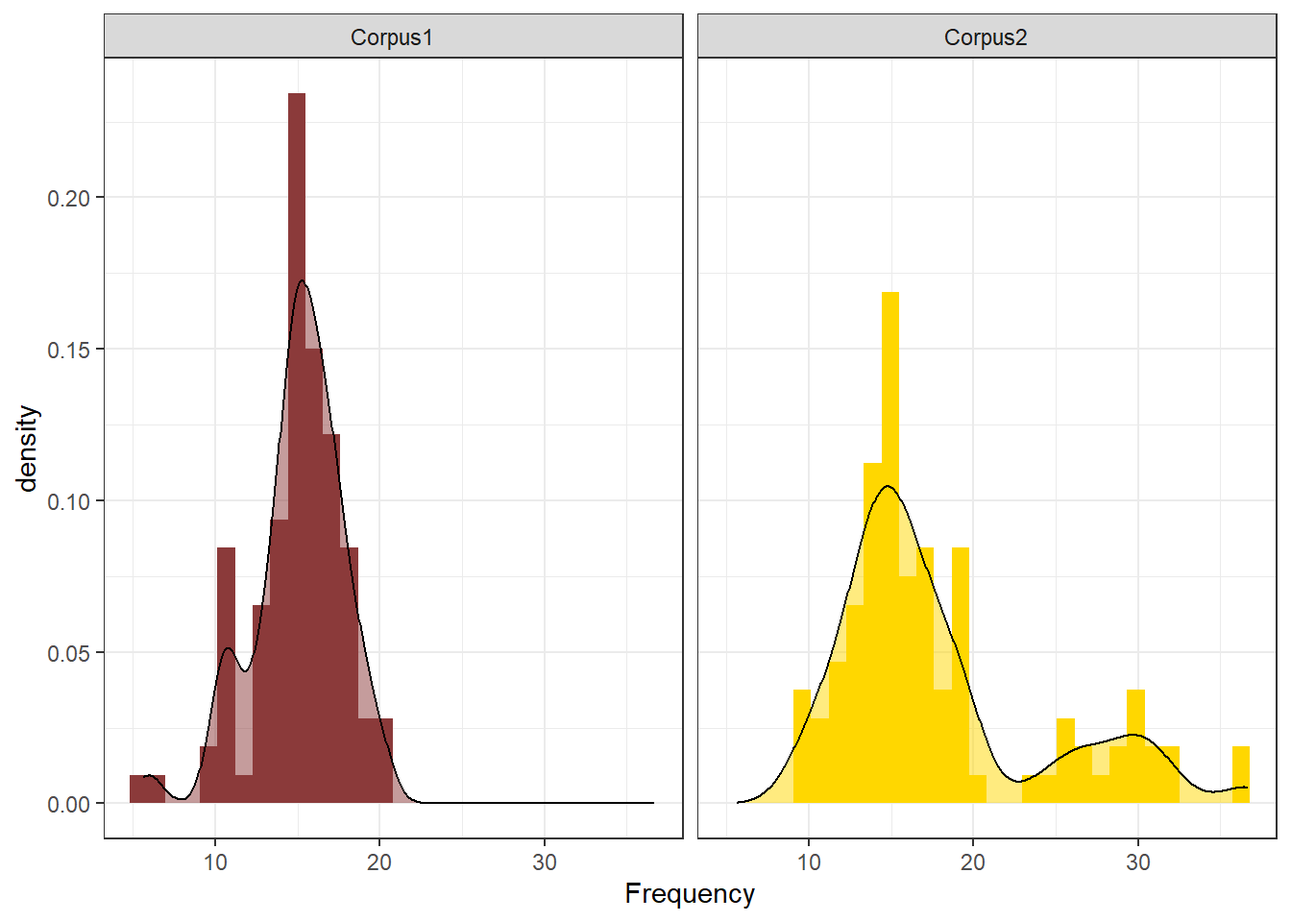
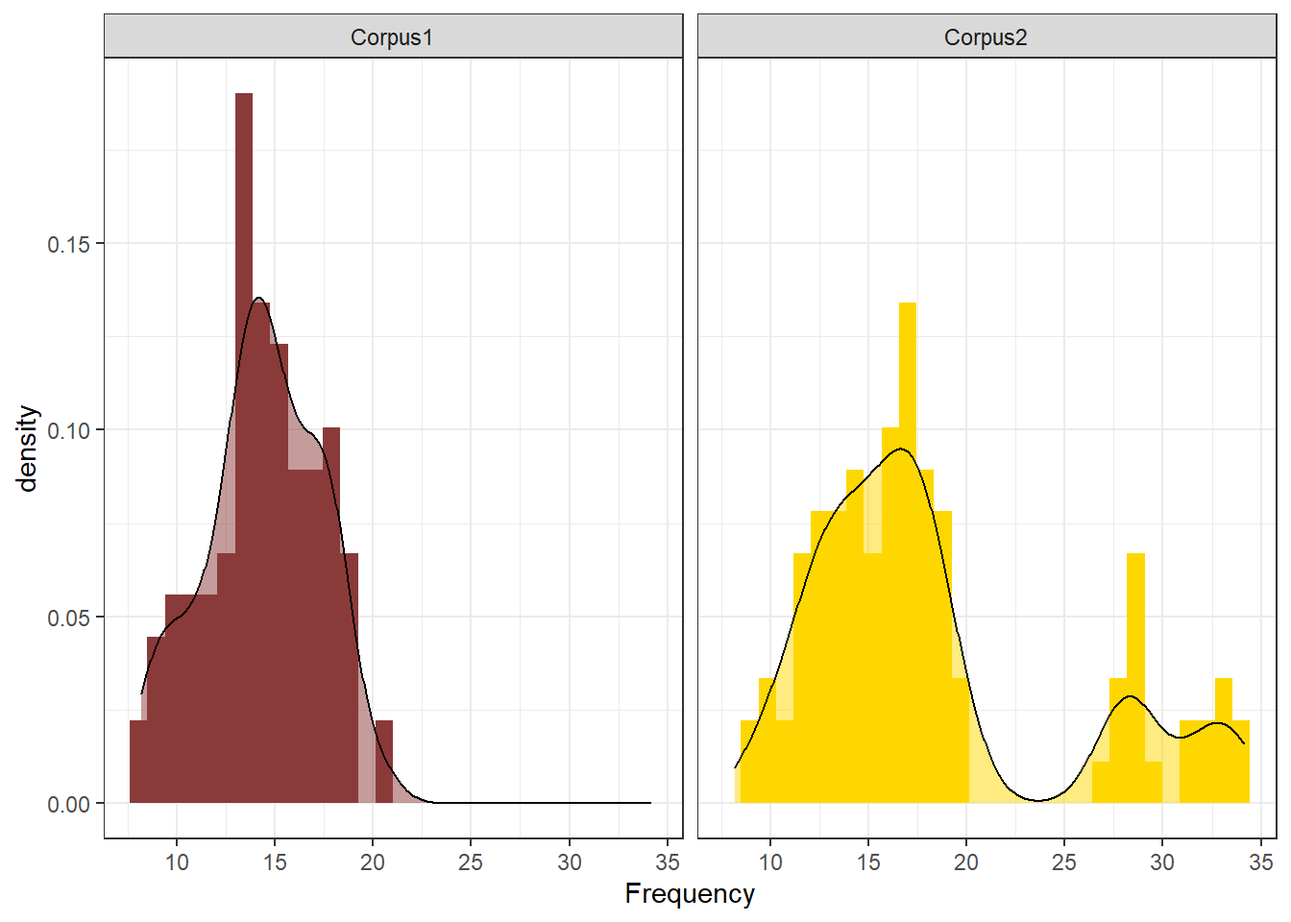
basic quant updates

diff --git a/basicquant.html b/basicquant.html
@@ -14,7 +14,7 @@
 
 <meta name="author" content="Martin Schweinberger" />
 
-<meta name="date" content="2021-03-23" />
+<meta name="date" content="2021-04-07" />
 
 <title>Basic Concepts in Quantitative Research</title>
 
@@ -538,7 +538,7 @@ div.tocify {
   </ul>
 </li>
 <li>
-  <a href="services.html">SERVICES &amp; CONTACT</a>
+  <a href="services.html">SERVICES | CONTACT</a>
 </li>
       </ul>
       <ul class="nav navbar-nav navbar-right">
@@ -554,7 +554,7 @@ div.tocify {
 
 <h1 class="title toc-ignore">Basic Concepts in Quantitative Research</h1>
 <h4 class="author">Martin Schweinberger</h4>
-<h4 class="date">2021-03-23</h4>
+<h4 class="date">2021-04-07</h4>
 
 </div>
 
@@ -576,15 +576,15 @@ div.tocify {
 <p>Perhaps the most trivial and important issues related to the processing and analysis of data are the questions <em>What is statistics?</em> and <em>Why should I use statistics?</em>. A simple answer to the first question is that statistics is a way to find out about the world around us in quantitative terms. Statistics therefore comprises methods that perform <em>quantitative analyses</em>. Quantitative analyses use numeric information to understand the world and they are very important in science (which I take here to refer to any approach that uses the scientific method to gain a reliable understanding of the world around us). The answer to the second question is more complicated but we can say that we use statistics for three main purposes:</p>
 <ol style="list-style-type: lower-alpha">
 <li>to summarize data (descriptive statistics)</li>
-<li>to explore data, and</li>
-<li>to see how something is related or influenced by something else.</li>
+<li>to explore data, and (exploratory statistics)</li>
+<li>to see how something is related or influenced by something else. (inference statistics)</li>
 </ol>
 <p>I also have a very practical approach to statistics and like to think of statistics as a kind of labor-saving device which helps me minimize labor - either the effort associated with reporting a result or in the effort of finding out about how two or more things are related based on some form of data. As such, statistics comprises methods (quantitative analyses) that we use in science to understand the world around us. Science can be defined as a systematic enterprise that builds and organizes knowledge in the form of testable explanations and predictions about the universe <span class="citation">(Wilson <a href="#ref-wilson1999natural" role="doc-biblioref">1999</a>, 58)</span>. One of the most fundamental concepts in that definition is the concept of testable explanations. Another name for such explanations is <em>hypothesis</em>. Thus, Edward Wilson’s definition of science can be rephrased (somewhat crudely) as the methodological testing of hypotheses. This goes to show that hypotheses are at the very heart of the scientific endeavor.</p>
 <p>To get a better understanding of how we <em>do science</em>, this tutorial introduces basic concepts that underpin (all) quantitative analyses. To this end, we will try to understand what hypotheses are, how to formulate them, and what logic underpins hypothesis testing. To begin with, we will focus on a practical example to avoid talking merely about abstract ideas. The example we will look at is the English comparative construction.</p>
 </div>
 <div id="primer-comparatives-in-english" class="section level1">
 <h1><span class="header-section-number">2</span> Primer: Comparatives in English</h1>
-<p>In English, the comparative forms of adjectives can be formed according to two strategies: either synthetically/morphologically as in <a href="#1ex">(1)</a> or analytically/periphrastically as in <a href="#2ex">(2)</a>.</p>
+<p>In English, the comparative forms of adjectives can be formed according to two strategies: either synthetically (also called morphologically) as in <a href="#1ex">(1)</a> or analytically (also called periphrastically) as in <a href="#2ex">(2)</a>.</p>
 <p>As a general rule, the comparative of adjectives that have only one syllable are formed by using the morphological strategy while adjectives that have three or more syllables are formed using the periphrastic strategy. However, in some cases where adjectives consist of two syllables, speakers may choose which strategy they apply. In our example, we want to find out, how to proceed when trying to understand the reasons why a speakers chooses the first strategy in one case and the second strategy in another.</p>
 <ol style="list-style-type: decimal">
 <li><p>synthetic/morphological comparative<br />
@@ -711,7 +711,7 @@ proud <span class="math inline">\(\rightarrow\)</span> more proud</p></li>
 </ul></li>
 </ul>
 <p>There are more designs(e.g. meta-studies) and also other classifications, but in the language sciences, I think that the ones listed above are the most frequent ones. Each of these designs has advantages and disadvantages which are briefly summarized in the table below.</p>
-<div class="tabwid"><style>.cl-44325fa8{font-family:'Arial';font-size:11px;font-weight:bold;font-style:normal;text-decoration:none;color:rgba(17, 17, 17, 1.00);background-color:transparent;}.cl-44325fa9{font-family:'Arial';font-size:11px;font-weight:normal;font-style:normal;text-decoration:none;color:rgba(17, 17, 17, 1.00);background-color:transparent;}.cl-443286b8{margin:0;text-align:left;border-bottom: 0 solid rgba(0, 0, 0, 1.00);border-top: 0 solid rgba(0, 0, 0, 1.00);border-left: 0 solid rgba(0, 0, 0, 1.00);border-right: 0 solid rgba(0, 0, 0, 1.00);padding-bottom:2px;padding-top:2px;padding-left:2px;padding-right:2px;line-height: 1.00;background-color:transparent;}.cl-4432ada0{width:156px;background-clip: padding-box;background-color:rgba(239, 239, 239, 1.00);vertical-align: middle;border-bottom: 0 solid rgba(0, 0, 0, 1.00);border-top: 0 solid rgba(0, 0, 0, 1.00);border-left: 0 solid rgba(0, 0, 0, 1.00);border-right: 0 solid rgba(0, 0, 0, 1.00);margin-bottom:0;margin-top:0;margin-left:0;margin-right:0;}.cl-4432ada1{width:101px;background-clip: padding-box;background-color:rgba(239, 239, 239, 1.00);vertical-align: middle;border-bottom: 0 solid rgba(0, 0, 0, 1.00);border-top: 0 solid rgba(0, 0, 0, 1.00);border-left: 0 solid rgba(0, 0, 0, 1.00);border-right: 0 solid rgba(0, 0, 0, 1.00);margin-bottom:0;margin-top:0;margin-left:0;margin-right:0;}.cl-4432ada2{width:187px;background-clip: padding-box;background-color:rgba(239, 239, 239, 1.00);vertical-align: middle;border-bottom: 0 solid rgba(0, 0, 0, 1.00);border-top: 0 solid rgba(0, 0, 0, 1.00);border-left: 0 solid rgba(0, 0, 0, 1.00);border-right: 0 solid rgba(0, 0, 0, 1.00);margin-bottom:0;margin-top:0;margin-left:0;margin-right:0;}.cl-4432ada3{width:119px;background-clip: padding-box;background-color:rgba(239, 239, 239, 1.00);vertical-align: middle;border-bottom: 0 solid rgba(0, 0, 0, 1.00);border-top: 0 solid rgba(0, 0, 0, 1.00);border-left: 0 solid rgba(0, 0, 0, 1.00);border-right: 0 solid rgba(0, 0, 0, 1.00);margin-bottom:0;margin-top:0;margin-left:0;margin-right:0;}.cl-4432ada4{width:93px;background-clip: padding-box;background-color:rgba(239, 239, 239, 1.00);vertical-align: middle;border-bottom: 0 solid rgba(0, 0, 0, 1.00);border-top: 0 solid rgba(0, 0, 0, 1.00);border-left: 0 solid rgba(0, 0, 0, 1.00);border-right: 0 solid rgba(0, 0, 0, 1.00);margin-bottom:0;margin-top:0;margin-left:0;margin-right:0;}.cl-4432ada5{width:280px;background-clip: padding-box;background-color:rgba(239, 239, 239, 1.00);vertical-align: middle;border-bottom: 0 solid rgba(0, 0, 0, 1.00);border-top: 0 solid rgba(0, 0, 0, 1.00);border-left: 0 solid rgba(0, 0, 0, 1.00);border-right: 0 solid rgba(0, 0, 0, 1.00);margin-bottom:0;margin-top:0;margin-left:0;margin-right:0;}.cl-4432ada6{width:126px;background-clip: padding-box;background-color:rgba(239, 239, 239, 1.00);vertical-align: middle;border-bottom: 0 solid rgba(0, 0, 0, 1.00);border-top: 0 solid rgba(0, 0, 0, 1.00);border-left: 0 solid rgba(0, 0, 0, 1.00);border-right: 0 solid rgba(0, 0, 0, 1.00);margin-bottom:0;margin-top:0;margin-left:0;margin-right:0;}.cl-4432ada7{width:208px;background-clip: padding-box;background-color:rgba(239, 239, 239, 1.00);vertical-align: middle;border-bottom: 0 solid rgba(0, 0, 0, 1.00);border-top: 0 solid rgba(0, 0, 0, 1.00);border-left: 0 solid rgba(0, 0, 0, 1.00);border-right: 0 solid rgba(0, 0, 0, 1.00);margin-bottom:0;margin-top:0;margin-left:0;margin-right:0;}.cl-4432ada8{width:208px;background-color:transparent;vertical-align: middle;border-bottom: 0 solid rgba(0, 0, 0, 1.00);border-top: 0 solid rgba(0, 0, 0, 1.00);border-left: 0 solid rgba(0, 0, 0, 1.00);border-right: 0 solid rgba(0, 0, 0, 1.00);margin-bottom:0;margin-top:0;margin-left:0;margin-right:0;}.cl-4432ada9{width:280px;background-color:transparent;vertical-align: middle;border-bottom: 0 solid rgba(0, 0, 0, 1.00);border-top: 0 solid rgba(0, 0, 0, 1.00);border-left: 0 solid rgba(0, 0, 0, 1.00);border-right: 0 solid rgba(0, 0, 0, 1.00);margin-bottom:0;margin-top:0;margin-left:0;margin-right:0;}.cl-4432adaa{width:187px;background-color:transparent;vertical-align: middle;border-bottom: 0 solid rgba(0, 0, 0, 1.00);border-top: 0 solid rgba(0, 0, 0, 1.00);border-left: 0 solid rgba(0, 0, 0, 1.00);border-right: 0 solid rgba(0, 0, 0, 1.00);margin-bottom:0;margin-top:0;margin-left:0;margin-right:0;}.cl-4432d492{width:126px;background-color:transparent;vertical-align: middle;border-bottom: 0 solid rgba(0, 0, 0, 1.00);border-top: 0 solid rgba(0, 0, 0, 1.00);border-left: 0 solid rgba(0, 0, 0, 1.00);border-right: 0 solid rgba(0, 0, 0, 1.00);margin-bottom:0;margin-top:0;margin-left:0;margin-right:0;}.cl-4432d493{width:119px;background-color:transparent;vertical-align: middle;border-bottom: 0 solid rgba(0, 0, 0, 1.00);border-top: 0 solid rgba(0, 0, 0, 1.00);border-left: 0 solid rgba(0, 0, 0, 1.00);border-right: 0 solid rgba(0, 0, 0, 1.00);margin-bottom:0;margin-top:0;margin-left:0;margin-right:0;}.cl-4432d494{width:93px;background-color:transparent;vertical-align: middle;border-bottom: 0 solid rgba(0, 0, 0, 1.00);border-top: 0 solid rgba(0, 0, 0, 1.00);border-left: 0 solid rgba(0, 0, 0, 1.00);border-right: 0 solid rgba(0, 0, 0, 1.00);margin-bottom:0;margin-top:0;margin-left:0;margin-right:0;}.cl-4432d495{width:156px;background-color:transparent;vertical-align: middle;border-bottom: 0 solid rgba(0, 0, 0, 1.00);border-top: 0 solid rgba(0, 0, 0, 1.00);border-left: 0 solid rgba(0, 0, 0, 1.00);border-right: 0 solid rgba(0, 0, 0, 1.00);margin-bottom:0;margin-top:0;margin-left:0;margin-right:0;}.cl-4432d496{width:101px;background-color:transparent;vertical-align: middle;border-bottom: 0 solid rgba(0, 0, 0, 1.00);border-top: 0 solid rgba(0, 0, 0, 1.00);border-left: 0 solid rgba(0, 0, 0, 1.00);border-right: 0 solid rgba(0, 0, 0, 1.00);margin-bottom:0;margin-top:0;margin-left:0;margin-right:0;}.cl-4432d497{width:119px;background-clip: padding-box;background-color:rgba(239, 239, 239, 1.00);vertical-align: middle;border-bottom: 0 solid rgba(0, 0, 0, 1.00);border-top: 0 solid rgba(0, 0, 0, 1.00);border-left: 0 solid rgba(0, 0, 0, 1.00);border-right: 0 solid rgba(0, 0, 0, 1.00);margin-bottom:0;margin-top:0;margin-left:0;margin-right:0;}.cl-4432d498{width:208px;background-clip: padding-box;background-color:rgba(239, 239, 239, 1.00);vertical-align: middle;border-bottom: 0 solid rgba(0, 0, 0, 1.00);border-top: 0 solid rgba(0, 0, 0, 1.00);border-left: 0 solid rgba(0, 0, 0, 1.00);border-right: 0 solid rgba(0, 0, 0, 1.00);margin-bottom:0;margin-top:0;margin-left:0;margin-right:0;}.cl-4432d499{width:93px;background-clip: padding-box;background-color:rgba(239, 239, 239, 1.00);vertical-align: middle;border-bottom: 0 solid rgba(0, 0, 0, 1.00);border-top: 0 solid rgba(0, 0, 0, 1.00);border-left: 0 solid rgba(0, 0, 0, 1.00);border-right: 0 solid rgba(0, 0, 0, 1.00);margin-bottom:0;margin-top:0;margin-left:0;margin-right:0;}.cl-4432d49a{width:101px;background-clip: padding-box;background-color:rgba(239, 239, 239, 1.00);vertical-align: middle;border-bottom: 0 solid rgba(0, 0, 0, 1.00);border-top: 0 solid rgba(0, 0, 0, 1.00);border-left: 0 solid rgba(0, 0, 0, 1.00);border-right: 0 solid rgba(0, 0, 0, 1.00);margin-bottom:0;margin-top:0;margin-left:0;margin-right:0;}.cl-4432d49b{width:280px;background-clip: padding-box;background-color:rgba(239, 239, 239, 1.00);vertical-align: middle;border-bottom: 0 solid rgba(0, 0, 0, 1.00);border-top: 0 solid rgba(0, 0, 0, 1.00);border-left: 0 solid rgba(0, 0, 0, 1.00);border-right: 0 solid rgba(0, 0, 0, 1.00);margin-bottom:0;margin-top:0;margin-left:0;margin-right:0;}.cl-4432d49c{width:187px;background-clip: padding-box;background-color:rgba(239, 239, 239, 1.00);vertical-align: middle;border-bottom: 0 solid rgba(0, 0, 0, 1.00);border-top: 0 solid rgba(0, 0, 0, 1.00);border-left: 0 solid rgba(0, 0, 0, 1.00);border-right: 0 solid rgba(0, 0, 0, 1.00);margin-bottom:0;margin-top:0;margin-left:0;margin-right:0;}.cl-4432fb8e{width:156px;background-clip: padding-box;background-color:rgba(239, 239, 239, 1.00);vertical-align: middle;border-bottom: 0 solid rgba(0, 0, 0, 1.00);border-top: 0 solid rgba(0, 0, 0, 1.00);border-left: 0 solid rgba(0, 0, 0, 1.00);border-right: 0 solid rgba(0, 0, 0, 1.00);margin-bottom:0;margin-top:0;margin-left:0;margin-right:0;}.cl-4432fb8f{width:126px;background-clip: padding-box;background-color:rgba(239, 239, 239, 1.00);vertical-align: middle;border-bottom: 0 solid rgba(0, 0, 0, 1.00);border-top: 0 solid rgba(0, 0, 0, 1.00);border-left: 0 solid rgba(0, 0, 0, 1.00);border-right: 0 solid rgba(0, 0, 0, 1.00);margin-bottom:0;margin-top:0;margin-left:0;margin-right:0;}.cl-4432fb90{width:156px;background-clip: padding-box;background-color:rgba(207, 207, 207, 1.00);vertical-align: middle;border-bottom: 0 solid rgba(0, 0, 0, 1.00);border-top: 0 solid rgba(0, 0, 0, 1.00);border-left: 0 solid rgba(0, 0, 0, 1.00);border-right: 0 solid rgba(0, 0, 0, 1.00);margin-bottom:0;margin-top:0;margin-left:0;margin-right:0;}.cl-4432fb91{width:280px;background-clip: padding-box;background-color:rgba(207, 207, 207, 1.00);vertical-align: middle;border-bottom: 0 solid rgba(0, 0, 0, 1.00);border-top: 0 solid rgba(0, 0, 0, 1.00);border-left: 0 solid rgba(0, 0, 0, 1.00);border-right: 0 solid rgba(0, 0, 0, 1.00);margin-bottom:0;margin-top:0;margin-left:0;margin-right:0;}.cl-4432fb92{width:126px;background-clip: padding-box;background-color:rgba(207, 207, 207, 1.00);vertical-align: middle;border-bottom: 0 solid rgba(0, 0, 0, 1.00);border-top: 0 solid rgba(0, 0, 0, 1.00);border-left: 0 solid rgba(0, 0, 0, 1.00);border-right: 0 solid rgba(0, 0, 0, 1.00);margin-bottom:0;margin-top:0;margin-left:0;margin-right:0;}.cl-4432fb93{width:101px;background-clip: padding-box;background-color:rgba(207, 207, 207, 1.00);vertical-align: middle;border-bottom: 0 solid rgba(0, 0, 0, 1.00);border-top: 0 solid rgba(0, 0, 0, 1.00);border-left: 0 solid rgba(0, 0, 0, 1.00);border-right: 0 solid rgba(0, 0, 0, 1.00);margin-bottom:0;margin-top:0;margin-left:0;margin-right:0;}.cl-4432fb94{width:119px;background-clip: padding-box;background-color:rgba(207, 207, 207, 1.00);vertical-align: middle;border-bottom: 0 solid rgba(0, 0, 0, 1.00);border-top: 0 solid rgba(0, 0, 0, 1.00);border-left: 0 solid rgba(0, 0, 0, 1.00);border-right: 0 solid rgba(0, 0, 0, 1.00);margin-bottom:0;margin-top:0;margin-left:0;margin-right:0;}.cl-4432fb95{width:208px;background-clip: padding-box;background-color:rgba(207, 207, 207, 1.00);vertical-align: middle;border-bottom: 0 solid rgba(0, 0, 0, 1.00);border-top: 0 solid rgba(0, 0, 0, 1.00);border-left: 0 solid rgba(0, 0, 0, 1.00);border-right: 0 solid rgba(0, 0, 0, 1.00);margin-bottom:0;margin-top:0;margin-left:0;margin-right:0;}.cl-4432fb96{width:187px;background-clip: padding-box;background-color:rgba(207, 207, 207, 1.00);vertical-align: middle;border-bottom: 0 solid rgba(0, 0, 0, 1.00);border-top: 0 solid rgba(0, 0, 0, 1.00);border-left: 0 solid rgba(0, 0, 0, 1.00);border-right: 0 solid rgba(0, 0, 0, 1.00);margin-bottom:0;margin-top:0;margin-left:0;margin-right:0;}.cl-4432fb97{width:93px;background-clip: padding-box;background-color:rgba(207, 207, 207, 1.00);vertical-align: middle;border-bottom: 0 solid rgba(0, 0, 0, 1.00);border-top: 0 solid rgba(0, 0, 0, 1.00);border-left: 0 solid rgba(0, 0, 0, 1.00);border-right: 0 solid rgba(0, 0, 0, 1.00);margin-bottom:0;margin-top:0;margin-left:0;margin-right:0;}</style><table style='border-collapse:collapse;'><caption>Overview of advantages and disadvantages of different research designs.</caption><thead><tr style="overflow-wrap:break-word;"><td class="cl-4432fb92"><p class="cl-443286b8"><span class="cl-44325fa8">Type</span></p></td><td class="cl-4432fb93"><p class="cl-443286b8"><span class="cl-44325fa8">Research design</span></p></td><td class="cl-4432fb90"><p class="cl-443286b8"><span class="cl-44325fa8">Example</span></p></td><td class="cl-4432fb95"><p class="cl-443286b8"><span class="cl-44325fa8">Directness of access to phenomenon</span></p></td><td class="cl-4432fb94"><p class="cl-443286b8"><span class="cl-44325fa8">Cost/Labor intensity</span></p></td><td class="cl-4432fb96"><p class="cl-443286b8"><span class="cl-44325fa8">External validity (generalizability)</span></p></td><td class="cl-4432fb97"><p class="cl-443286b8"><span class="cl-44325fa8">Internal validity</span></p></td><td class="cl-4432fb91"><p class="cl-443286b8"><span class="cl-44325fa8">Ease of data collection (e.g. access to participants)</span></p></td></tr></thead><tbody><tr style="overflow-wrap:break-word;"><td class="cl-4432ada6"><p class="cl-443286b8"><span class="cl-44325fa9">Experimental research</span></p></td><td class="cl-4432ada1"><p class="cl-443286b8"><span class="cl-44325fa9">Experimental</span></p></td><td class="cl-4432ada0"><p class="cl-443286b8"><span class="cl-44325fa9">Reaction time measurements</span></p></td><td class="cl-4432ada7"><p class="cl-443286b8"><span class="cl-44325fa9">high</span></p></td><td class="cl-4432ada3"><p class="cl-443286b8"><span class="cl-44325fa9">high/variable</span></p></td><td class="cl-4432ada2"><p class="cl-443286b8"><span class="cl-44325fa9">high</span></p></td><td class="cl-4432ada4"><p class="cl-443286b8"><span class="cl-44325fa9">high</span></p></td><td class="cl-4432ada5"><p class="cl-443286b8"><span class="cl-44325fa9">low</span></p></td></tr><tr style="overflow-wrap:break-word;"><td  rowspan="4"class="cl-4432d492"><p class="cl-443286b8"><span class="cl-44325fa9">Observational research</span></p></td><td class="cl-4432d496"><p class="cl-443286b8"><span class="cl-44325fa9">Behavioral</span></p></td><td class="cl-4432d495"><p class="cl-443286b8"><span class="cl-44325fa9">Corpus study</span></p></td><td class="cl-4432ada8"><p class="cl-443286b8"><span class="cl-44325fa9">high</span></p></td><td class="cl-4432d493"><p class="cl-443286b8"><span class="cl-44325fa9">low/variable</span></p></td><td class="cl-4432adaa"><p class="cl-443286b8"><span class="cl-44325fa9">low/variable</span></p></td><td class="cl-4432d494"><p class="cl-443286b8"><span class="cl-44325fa9">high</span></p></td><td class="cl-4432ada9"><p class="cl-443286b8"><span class="cl-44325fa9">medium</span></p></td></tr><tr style="overflow-wrap:break-word;"><td class="cl-4432ada1"><p class="cl-443286b8"><span class="cl-44325fa9">Archival/Review</span></p></td><td class="cl-4432ada0"><p class="cl-443286b8"><span class="cl-44325fa9">Systematic literature review</span></p></td><td class="cl-4432ada7"><p class="cl-443286b8"><span class="cl-44325fa9">low</span></p></td><td class="cl-4432ada3"><p class="cl-443286b8"><span class="cl-44325fa9">low</span></p></td><td class="cl-4432ada2"><p class="cl-443286b8"><span class="cl-44325fa9">low</span></p></td><td class="cl-4432ada4"><p class="cl-443286b8"><span class="cl-44325fa9">medium</span></p></td><td class="cl-4432ada5"><p class="cl-443286b8"><span class="cl-44325fa9">high</span></p></td></tr><tr style="overflow-wrap:break-word;"><td class="cl-4432d496"><p class="cl-443286b8"><span class="cl-44325fa9">Introspection</span></p></td><td class="cl-4432d495"><p class="cl-443286b8"><span class="cl-44325fa9">Grammaticality judgements</span></p></td><td class="cl-4432ada8"><p class="cl-443286b8"><span class="cl-44325fa9">high</span></p></td><td class="cl-4432d493"><p class="cl-443286b8"><span class="cl-44325fa9">low</span></p></td><td class="cl-4432adaa"><p class="cl-443286b8"><span class="cl-44325fa9">low/variable</span></p></td><td class="cl-4432d494"><p class="cl-443286b8"><span class="cl-44325fa9">high</span></p></td><td class="cl-4432ada9"><p class="cl-443286b8"><span class="cl-44325fa9">low</span></p></td></tr><tr style="overflow-wrap:break-word;"><td class="cl-4432d49a"><p class="cl-443286b8"><span class="cl-44325fa9">Questionnaire</span></p></td><td class="cl-4432fb8e"><p class="cl-443286b8"><span class="cl-44325fa9">Language use survey</span></p></td><td class="cl-4432d498"><p class="cl-443286b8"><span class="cl-44325fa9">medium</span></p></td><td class="cl-4432d497"><p class="cl-443286b8"><span class="cl-44325fa9">low</span></p></td><td class="cl-4432d49c"><p class="cl-443286b8"><span class="cl-44325fa9">medium</span></p></td><td class="cl-4432d499"><p class="cl-443286b8"><span class="cl-44325fa9">medium</span></p></td><td class="cl-4432d49b"><p class="cl-443286b8"><span class="cl-44325fa9">high</span></p></td></tr></tbody></table></div>
+<div class="tabwid"><style>.cl-b78061da{font-family:'Arial';font-size:11px;font-weight:bold;font-style:normal;text-decoration:none;color:rgba(17, 17, 17, 1.00);background-color:transparent;}.cl-b78061db{font-family:'Arial';font-size:11px;font-weight:normal;font-style:normal;text-decoration:none;color:rgba(17, 17, 17, 1.00);background-color:transparent;}.cl-b78088cc{margin:0;text-align:left;border-bottom: 0 solid rgba(0, 0, 0, 1.00);border-top: 0 solid rgba(0, 0, 0, 1.00);border-left: 0 solid rgba(0, 0, 0, 1.00);border-right: 0 solid rgba(0, 0, 0, 1.00);padding-bottom:2px;padding-top:2px;padding-left:2px;padding-right:2px;line-height: 1.00;background-color:transparent;}.cl-b7814bb8{width:156px;background-clip: padding-box;background-color:rgba(239, 239, 239, 1.00);vertical-align: middle;border-bottom: 0 solid rgba(0, 0, 0, 1.00);border-top: 0 solid rgba(0, 0, 0, 1.00);border-left: 0 solid rgba(0, 0, 0, 1.00);border-right: 0 solid rgba(0, 0, 0, 1.00);margin-bottom:0;margin-top:0;margin-left:0;margin-right:0;}.cl-b7814bb9{width:101px;background-clip: padding-box;background-color:rgba(239, 239, 239, 1.00);vertical-align: middle;border-bottom: 0 solid rgba(0, 0, 0, 1.00);border-top: 0 solid rgba(0, 0, 0, 1.00);border-left: 0 solid rgba(0, 0, 0, 1.00);border-right: 0 solid rgba(0, 0, 0, 1.00);margin-bottom:0;margin-top:0;margin-left:0;margin-right:0;}.cl-b7814bba{width:187px;background-clip: padding-box;background-color:rgba(239, 239, 239, 1.00);vertical-align: middle;border-bottom: 0 solid rgba(0, 0, 0, 1.00);border-top: 0 solid rgba(0, 0, 0, 1.00);border-left: 0 solid rgba(0, 0, 0, 1.00);border-right: 0 solid rgba(0, 0, 0, 1.00);margin-bottom:0;margin-top:0;margin-left:0;margin-right:0;}.cl-b7814bbb{width:119px;background-clip: padding-box;background-color:rgba(239, 239, 239, 1.00);vertical-align: middle;border-bottom: 0 solid rgba(0, 0, 0, 1.00);border-top: 0 solid rgba(0, 0, 0, 1.00);border-left: 0 solid rgba(0, 0, 0, 1.00);border-right: 0 solid rgba(0, 0, 0, 1.00);margin-bottom:0;margin-top:0;margin-left:0;margin-right:0;}.cl-b7814bbc{width:93px;background-clip: padding-box;background-color:rgba(239, 239, 239, 1.00);vertical-align: middle;border-bottom: 0 solid rgba(0, 0, 0, 1.00);border-top: 0 solid rgba(0, 0, 0, 1.00);border-left: 0 solid rgba(0, 0, 0, 1.00);border-right: 0 solid rgba(0, 0, 0, 1.00);margin-bottom:0;margin-top:0;margin-left:0;margin-right:0;}.cl-b7814bbd{width:280px;background-clip: padding-box;background-color:rgba(239, 239, 239, 1.00);vertical-align: middle;border-bottom: 0 solid rgba(0, 0, 0, 1.00);border-top: 0 solid rgba(0, 0, 0, 1.00);border-left: 0 solid rgba(0, 0, 0, 1.00);border-right: 0 solid rgba(0, 0, 0, 1.00);margin-bottom:0;margin-top:0;margin-left:0;margin-right:0;}.cl-b7814bbe{width:126px;background-clip: padding-box;background-color:rgba(239, 239, 239, 1.00);vertical-align: middle;border-bottom: 0 solid rgba(0, 0, 0, 1.00);border-top: 0 solid rgba(0, 0, 0, 1.00);border-left: 0 solid rgba(0, 0, 0, 1.00);border-right: 0 solid rgba(0, 0, 0, 1.00);margin-bottom:0;margin-top:0;margin-left:0;margin-right:0;}.cl-b7814bbf{width:208px;background-clip: padding-box;background-color:rgba(239, 239, 239, 1.00);vertical-align: middle;border-bottom: 0 solid rgba(0, 0, 0, 1.00);border-top: 0 solid rgba(0, 0, 0, 1.00);border-left: 0 solid rgba(0, 0, 0, 1.00);border-right: 0 solid rgba(0, 0, 0, 1.00);margin-bottom:0;margin-top:0;margin-left:0;margin-right:0;}.cl-b7814bc0{width:208px;background-color:transparent;vertical-align: middle;border-bottom: 0 solid rgba(0, 0, 0, 1.00);border-top: 0 solid rgba(0, 0, 0, 1.00);border-left: 0 solid rgba(0, 0, 0, 1.00);border-right: 0 solid rgba(0, 0, 0, 1.00);margin-bottom:0;margin-top:0;margin-left:0;margin-right:0;}.cl-b7814bc1{width:280px;background-color:transparent;vertical-align: middle;border-bottom: 0 solid rgba(0, 0, 0, 1.00);border-top: 0 solid rgba(0, 0, 0, 1.00);border-left: 0 solid rgba(0, 0, 0, 1.00);border-right: 0 solid rgba(0, 0, 0, 1.00);margin-bottom:0;margin-top:0;margin-left:0;margin-right:0;}.cl-b7814bc2{width:187px;background-color:transparent;vertical-align: middle;border-bottom: 0 solid rgba(0, 0, 0, 1.00);border-top: 0 solid rgba(0, 0, 0, 1.00);border-left: 0 solid rgba(0, 0, 0, 1.00);border-right: 0 solid rgba(0, 0, 0, 1.00);margin-bottom:0;margin-top:0;margin-left:0;margin-right:0;}.cl-b78172a0{width:126px;background-color:transparent;vertical-align: middle;border-bottom: 0 solid rgba(0, 0, 0, 1.00);border-top: 0 solid rgba(0, 0, 0, 1.00);border-left: 0 solid rgba(0, 0, 0, 1.00);border-right: 0 solid rgba(0, 0, 0, 1.00);margin-bottom:0;margin-top:0;margin-left:0;margin-right:0;}.cl-b78172a1{width:119px;background-color:transparent;vertical-align: middle;border-bottom: 0 solid rgba(0, 0, 0, 1.00);border-top: 0 solid rgba(0, 0, 0, 1.00);border-left: 0 solid rgba(0, 0, 0, 1.00);border-right: 0 solid rgba(0, 0, 0, 1.00);margin-bottom:0;margin-top:0;margin-left:0;margin-right:0;}.cl-b78172a2{width:93px;background-color:transparent;vertical-align: middle;border-bottom: 0 solid rgba(0, 0, 0, 1.00);border-top: 0 solid rgba(0, 0, 0, 1.00);border-left: 0 solid rgba(0, 0, 0, 1.00);border-right: 0 solid rgba(0, 0, 0, 1.00);margin-bottom:0;margin-top:0;margin-left:0;margin-right:0;}.cl-b78172a3{width:156px;background-color:transparent;vertical-align: middle;border-bottom: 0 solid rgba(0, 0, 0, 1.00);border-top: 0 solid rgba(0, 0, 0, 1.00);border-left: 0 solid rgba(0, 0, 0, 1.00);border-right: 0 solid rgba(0, 0, 0, 1.00);margin-bottom:0;margin-top:0;margin-left:0;margin-right:0;}.cl-b78172a4{width:101px;background-color:transparent;vertical-align: middle;border-bottom: 0 solid rgba(0, 0, 0, 1.00);border-top: 0 solid rgba(0, 0, 0, 1.00);border-left: 0 solid rgba(0, 0, 0, 1.00);border-right: 0 solid rgba(0, 0, 0, 1.00);margin-bottom:0;margin-top:0;margin-left:0;margin-right:0;}.cl-b78172a5{width:119px;background-clip: padding-box;background-color:rgba(239, 239, 239, 1.00);vertical-align: middle;border-bottom: 0 solid rgba(0, 0, 0, 1.00);border-top: 0 solid rgba(0, 0, 0, 1.00);border-left: 0 solid rgba(0, 0, 0, 1.00);border-right: 0 solid rgba(0, 0, 0, 1.00);margin-bottom:0;margin-top:0;margin-left:0;margin-right:0;}.cl-b78172a6{width:208px;background-clip: padding-box;background-color:rgba(239, 239, 239, 1.00);vertical-align: middle;border-bottom: 0 solid rgba(0, 0, 0, 1.00);border-top: 0 solid rgba(0, 0, 0, 1.00);border-left: 0 solid rgba(0, 0, 0, 1.00);border-right: 0 solid rgba(0, 0, 0, 1.00);margin-bottom:0;margin-top:0;margin-left:0;margin-right:0;}.cl-b78172a7{width:93px;background-clip: padding-box;background-color:rgba(239, 239, 239, 1.00);vertical-align: middle;border-bottom: 0 solid rgba(0, 0, 0, 1.00);border-top: 0 solid rgba(0, 0, 0, 1.00);border-left: 0 solid rgba(0, 0, 0, 1.00);border-right: 0 solid rgba(0, 0, 0, 1.00);margin-bottom:0;margin-top:0;margin-left:0;margin-right:0;}.cl-b78172a8{width:101px;background-clip: padding-box;background-color:rgba(239, 239, 239, 1.00);vertical-align: middle;border-bottom: 0 solid rgba(0, 0, 0, 1.00);border-top: 0 solid rgba(0, 0, 0, 1.00);border-left: 0 solid rgba(0, 0, 0, 1.00);border-right: 0 solid rgba(0, 0, 0, 1.00);margin-bottom:0;margin-top:0;margin-left:0;margin-right:0;}.cl-b78172a9{width:280px;background-clip: padding-box;background-color:rgba(239, 239, 239, 1.00);vertical-align: middle;border-bottom: 0 solid rgba(0, 0, 0, 1.00);border-top: 0 solid rgba(0, 0, 0, 1.00);border-left: 0 solid rgba(0, 0, 0, 1.00);border-right: 0 solid rgba(0, 0, 0, 1.00);margin-bottom:0;margin-top:0;margin-left:0;margin-right:0;}.cl-b78172aa{width:187px;background-clip: padding-box;background-color:rgba(239, 239, 239, 1.00);vertical-align: middle;border-bottom: 0 solid rgba(0, 0, 0, 1.00);border-top: 0 solid rgba(0, 0, 0, 1.00);border-left: 0 solid rgba(0, 0, 0, 1.00);border-right: 0 solid rgba(0, 0, 0, 1.00);margin-bottom:0;margin-top:0;margin-left:0;margin-right:0;}.cl-b781997e{width:156px;background-clip: padding-box;background-color:rgba(239, 239, 239, 1.00);vertical-align: middle;border-bottom: 0 solid rgba(0, 0, 0, 1.00);border-top: 0 solid rgba(0, 0, 0, 1.00);border-left: 0 solid rgba(0, 0, 0, 1.00);border-right: 0 solid rgba(0, 0, 0, 1.00);margin-bottom:0;margin-top:0;margin-left:0;margin-right:0;}.cl-b781997f{width:126px;background-clip: padding-box;background-color:rgba(239, 239, 239, 1.00);vertical-align: middle;border-bottom: 0 solid rgba(0, 0, 0, 1.00);border-top: 0 solid rgba(0, 0, 0, 1.00);border-left: 0 solid rgba(0, 0, 0, 1.00);border-right: 0 solid rgba(0, 0, 0, 1.00);margin-bottom:0;margin-top:0;margin-left:0;margin-right:0;}.cl-b7819980{width:156px;background-clip: padding-box;background-color:rgba(207, 207, 207, 1.00);vertical-align: middle;border-bottom: 0 solid rgba(0, 0, 0, 1.00);border-top: 0 solid rgba(0, 0, 0, 1.00);border-left: 0 solid rgba(0, 0, 0, 1.00);border-right: 0 solid rgba(0, 0, 0, 1.00);margin-bottom:0;margin-top:0;margin-left:0;margin-right:0;}.cl-b7819981{width:280px;background-clip: padding-box;background-color:rgba(207, 207, 207, 1.00);vertical-align: middle;border-bottom: 0 solid rgba(0, 0, 0, 1.00);border-top: 0 solid rgba(0, 0, 0, 1.00);border-left: 0 solid rgba(0, 0, 0, 1.00);border-right: 0 solid rgba(0, 0, 0, 1.00);margin-bottom:0;margin-top:0;margin-left:0;margin-right:0;}.cl-b7819982{width:126px;background-clip: padding-box;background-color:rgba(207, 207, 207, 1.00);vertical-align: middle;border-bottom: 0 solid rgba(0, 0, 0, 1.00);border-top: 0 solid rgba(0, 0, 0, 1.00);border-left: 0 solid rgba(0, 0, 0, 1.00);border-right: 0 solid rgba(0, 0, 0, 1.00);margin-bottom:0;margin-top:0;margin-left:0;margin-right:0;}.cl-b7819983{width:101px;background-clip: padding-box;background-color:rgba(207, 207, 207, 1.00);vertical-align: middle;border-bottom: 0 solid rgba(0, 0, 0, 1.00);border-top: 0 solid rgba(0, 0, 0, 1.00);border-left: 0 solid rgba(0, 0, 0, 1.00);border-right: 0 solid rgba(0, 0, 0, 1.00);margin-bottom:0;margin-top:0;margin-left:0;margin-right:0;}.cl-b7819984{width:119px;background-clip: padding-box;background-color:rgba(207, 207, 207, 1.00);vertical-align: middle;border-bottom: 0 solid rgba(0, 0, 0, 1.00);border-top: 0 solid rgba(0, 0, 0, 1.00);border-left: 0 solid rgba(0, 0, 0, 1.00);border-right: 0 solid rgba(0, 0, 0, 1.00);margin-bottom:0;margin-top:0;margin-left:0;margin-right:0;}.cl-b7819985{width:208px;background-clip: padding-box;background-color:rgba(207, 207, 207, 1.00);vertical-align: middle;border-bottom: 0 solid rgba(0, 0, 0, 1.00);border-top: 0 solid rgba(0, 0, 0, 1.00);border-left: 0 solid rgba(0, 0, 0, 1.00);border-right: 0 solid rgba(0, 0, 0, 1.00);margin-bottom:0;margin-top:0;margin-left:0;margin-right:0;}.cl-b7819986{width:187px;background-clip: padding-box;background-color:rgba(207, 207, 207, 1.00);vertical-align: middle;border-bottom: 0 solid rgba(0, 0, 0, 1.00);border-top: 0 solid rgba(0, 0, 0, 1.00);border-left: 0 solid rgba(0, 0, 0, 1.00);border-right: 0 solid rgba(0, 0, 0, 1.00);margin-bottom:0;margin-top:0;margin-left:0;margin-right:0;}.cl-b7819987{width:93px;background-clip: padding-box;background-color:rgba(207, 207, 207, 1.00);vertical-align: middle;border-bottom: 0 solid rgba(0, 0, 0, 1.00);border-top: 0 solid rgba(0, 0, 0, 1.00);border-left: 0 solid rgba(0, 0, 0, 1.00);border-right: 0 solid rgba(0, 0, 0, 1.00);margin-bottom:0;margin-top:0;margin-left:0;margin-right:0;}</style><table style='border-collapse:collapse;'><caption>Overview of advantages and disadvantages of different research designs.</caption><thead><tr style="overflow-wrap:break-word;"><td class="cl-b7819982"><p class="cl-b78088cc"><span class="cl-b78061da">Type</span></p></td><td class="cl-b7819983"><p class="cl-b78088cc"><span class="cl-b78061da">Research design</span></p></td><td class="cl-b7819980"><p class="cl-b78088cc"><span class="cl-b78061da">Example</span></p></td><td class="cl-b7819985"><p class="cl-b78088cc"><span class="cl-b78061da">Directness of access to phenomenon</span></p></td><td class="cl-b7819984"><p class="cl-b78088cc"><span class="cl-b78061da">Cost/Labor intensity</span></p></td><td class="cl-b7819986"><p class="cl-b78088cc"><span class="cl-b78061da">External validity (generalizability)</span></p></td><td class="cl-b7819987"><p class="cl-b78088cc"><span class="cl-b78061da">Internal validity</span></p></td><td class="cl-b7819981"><p class="cl-b78088cc"><span class="cl-b78061da">Ease of data collection (e.g. access to participants)</span></p></td></tr></thead><tbody><tr style="overflow-wrap:break-word;"><td class="cl-b7814bbe"><p class="cl-b78088cc"><span class="cl-b78061db">Experimental research</span></p></td><td class="cl-b7814bb9"><p class="cl-b78088cc"><span class="cl-b78061db">Experimental</span></p></td><td class="cl-b7814bb8"><p class="cl-b78088cc"><span class="cl-b78061db">Reaction time measurements</span></p></td><td class="cl-b7814bbf"><p class="cl-b78088cc"><span class="cl-b78061db">high</span></p></td><td class="cl-b7814bbb"><p class="cl-b78088cc"><span class="cl-b78061db">high/variable</span></p></td><td class="cl-b7814bba"><p class="cl-b78088cc"><span class="cl-b78061db">high</span></p></td><td class="cl-b7814bbc"><p class="cl-b78088cc"><span class="cl-b78061db">high</span></p></td><td class="cl-b7814bbd"><p class="cl-b78088cc"><span class="cl-b78061db">low</span></p></td></tr><tr style="overflow-wrap:break-word;"><td  rowspan="4"class="cl-b78172a0"><p class="cl-b78088cc"><span class="cl-b78061db">Observational research</span></p></td><td class="cl-b78172a4"><p class="cl-b78088cc"><span class="cl-b78061db">Behavioral</span></p></td><td class="cl-b78172a3"><p class="cl-b78088cc"><span class="cl-b78061db">Corpus study</span></p></td><td class="cl-b7814bc0"><p class="cl-b78088cc"><span class="cl-b78061db">high</span></p></td><td class="cl-b78172a1"><p class="cl-b78088cc"><span class="cl-b78061db">low/variable</span></p></td><td class="cl-b7814bc2"><p class="cl-b78088cc"><span class="cl-b78061db">low/variable</span></p></td><td class="cl-b78172a2"><p class="cl-b78088cc"><span class="cl-b78061db">high</span></p></td><td class="cl-b7814bc1"><p class="cl-b78088cc"><span class="cl-b78061db">medium</span></p></td></tr><tr style="overflow-wrap:break-word;"><td class="cl-b7814bb9"><p class="cl-b78088cc"><span class="cl-b78061db">Archival/Review</span></p></td><td class="cl-b7814bb8"><p class="cl-b78088cc"><span class="cl-b78061db">Systematic literature review</span></p></td><td class="cl-b7814bbf"><p class="cl-b78088cc"><span class="cl-b78061db">low</span></p></td><td class="cl-b7814bbb"><p class="cl-b78088cc"><span class="cl-b78061db">low</span></p></td><td class="cl-b7814bba"><p class="cl-b78088cc"><span class="cl-b78061db">low</span></p></td><td class="cl-b7814bbc"><p class="cl-b78088cc"><span class="cl-b78061db">medium</span></p></td><td class="cl-b7814bbd"><p class="cl-b78088cc"><span class="cl-b78061db">high</span></p></td></tr><tr style="overflow-wrap:break-word;"><td class="cl-b78172a4"><p class="cl-b78088cc"><span class="cl-b78061db">Introspection</span></p></td><td class="cl-b78172a3"><p class="cl-b78088cc"><span class="cl-b78061db">Grammaticality judgements</span></p></td><td class="cl-b7814bc0"><p class="cl-b78088cc"><span class="cl-b78061db">high</span></p></td><td class="cl-b78172a1"><p class="cl-b78088cc"><span class="cl-b78061db">low</span></p></td><td class="cl-b7814bc2"><p class="cl-b78088cc"><span class="cl-b78061db">low/variable</span></p></td><td class="cl-b78172a2"><p class="cl-b78088cc"><span class="cl-b78061db">high</span></p></td><td class="cl-b7814bc1"><p class="cl-b78088cc"><span class="cl-b78061db">low</span></p></td></tr><tr style="overflow-wrap:break-word;"><td class="cl-b78172a8"><p class="cl-b78088cc"><span class="cl-b78061db">Questionnaire</span></p></td><td class="cl-b781997e"><p class="cl-b78088cc"><span class="cl-b78061db">Language use survey</span></p></td><td class="cl-b78172a6"><p class="cl-b78088cc"><span class="cl-b78061db">medium</span></p></td><td class="cl-b78172a5"><p class="cl-b78088cc"><span class="cl-b78061db">low</span></p></td><td class="cl-b78172aa"><p class="cl-b78088cc"><span class="cl-b78061db">medium</span></p></td><td class="cl-b78172a7"><p class="cl-b78088cc"><span class="cl-b78061db">medium</span></p></td><td class="cl-b78172a9"><p class="cl-b78088cc"><span class="cl-b78061db">high</span></p></td></tr></tbody></table></div>
 <p>We will now briefly focus on each design and discuss it.</p>
 <div id="experimental-research" class="section level3 unnumbered">
 <h3>Experimental research</h3>
@@ -1150,21 +1150,21 @@ alpha-error
 ##  Shapiro-Wilk normality test
 ## 
 ## data:  c1
-## W = 0.9587, p-value = 0.003253</code></pre>
+## W = 0.97891, p-value = 0.1092</code></pre>
 <pre><code>## 
 ##  Shapiro-Wilk normality test
 ## 
 ## data:  c2
-## W = 0.8583, p-value = 2.433e-08</code></pre>
+## W = 0.84907, p-value = 1.096e-08</code></pre>
 <p>According to the Shapiro-Wilk test, the distribution in Corpus 1 is normal while the distribution in Corpus 2 is non-normal. It important to mention here that the Shapiro-Wilk test is inexact for small samples (N &lt; 60) but to rigorous for large samples (N &gt; 200).</p>
 <p>One issue that we face now that we have confirmed that the distribution in Corpus 2 is non-normal relates to the description of the data. If data are non-normal, then the usual descriptive statistics (mean, median, standard deviation) are not really appropriate because they either assume normality (mean and standard deviation) or they are unfit to report non-normal structure). Therefore, when dealing with non-normal data, it is common to use alternative descriptive statistics.</p>
 <pre><code>##    Min. 1st Qu.  Median    Mean 3rd Qu.    Max. 
-##   9.382  13.734  15.857  17.841  19.322  36.593</code></pre>
+##   9.092  13.623  16.555  18.185  18.908  34.153</code></pre>
 <pre><code>##      25%      50%      75% 
-## 13.73358 15.85652 19.32152</code></pre>
-<pre><code>## [1]  9.382257 36.592623</code></pre>
-<pre><code>## [1] 2.579698</code></pre>
-<pre><code>## [1] 5.587944</code></pre>
+## 13.62322 16.55493 18.90829</code></pre>
+<pre><code>## [1]  9.09185 34.15272</code></pre>
+<pre><code>## [1] 2.686872</code></pre>
+<pre><code>## [1] 5.285072</code></pre>
 <pre><code>##   id text.id subfile spk.ref             zone      date    sex   age  reside
 ## 1  1 S1A-001       1       A northern ireland 1990-1994   male 34-41 belfast
 ## 2  2 S1A-001       1       B northern ireland 1990-1994 female 34-41 belfast
@@ -1310,7 +1310,7 @@ Test: NoCancer
 </div>
 <div id="citation-session-info" class="section level1 unnumbered">
 <h1>Citation &amp; Session Info</h1>
-<p>Schweinberger, Martin. 2021. <em>Basic Concepts in Quantitative Research</em>. Brisbane: The University of Queensland. url: <a href="https://slcladal.github.io/basicquant.html" class="uri">https://slcladal.github.io/basicquant.html</a> (Version 2021.03.23).</p>
+<p>Schweinberger, Martin. 2021. <em>Basic Concepts in Quantitative Research</em>. Brisbane: The University of Queensland. url: <a href="https://slcladal.github.io/basicquant.html" class="uri">https://slcladal.github.io/basicquant.html</a> (Version 2021.04.07).</p>
 <pre><code>@manual{schweinberger2021basicquant,
   author = {Schweinberger, Martin},
   title = {Basic Concepts in Quantitative Research},
@@ -1318,7 +1318,7 @@ Test: NoCancer
   year = {2021},
   organization = &quot;The University of Queensland, Australia. School of Languages and Cultures},
   address = {Brisbane},
-  edition = {2021.03.23}
+  edition = {2021.04.07}
 }</code></pre>
 <pre class="r"><code>sessionInfo()</code></pre>
 <pre><code>## R version 4.0.3 (2020-10-10)
